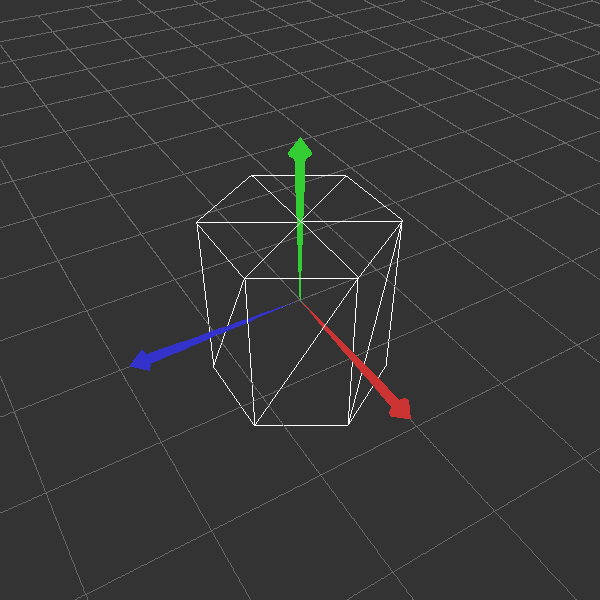
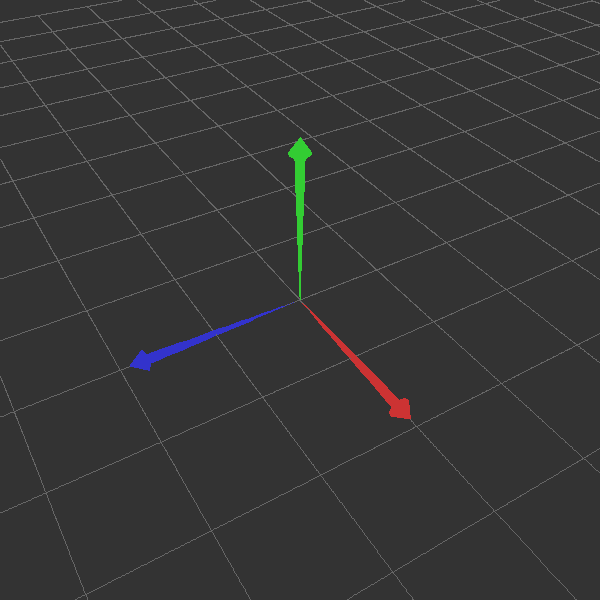
slider works

diff --git a/model/src/modeler/shape/Cylinder.java b/model/src/modeler/shape/Cylinder.java
@@ -4,6 +4,8 @@ import javax.vecmath.Point3f;
 import javax.vecmath.Point3i;
 import javax.vecmath.Vector3f;
 
+import jgl.glu.nurbs_nurbs;
+
 /**
  * @author ags
  */
@@ -17,6 +19,10 @@ public class Cylinder extends Shape {
 	private transient static Mesh cylinderMesh;
 
 
+	//? Questions
+	// lighting is off,,, -> diff checker but why???
+	// also the facets are wrong
+
 	/**
 	 * Required for IO
 	 */
@@ -28,12 +34,6 @@ public class Cylinder extends Shape {
 	public void buildMesh() 
 	{
 		// TODO: Part 2: Implement this method	
-
-		//Do nothing if the mesh has already been built
-		if(cylinderMesh != null) {
-			mesh = cylinderMesh;
-			return;
-		}
 
 		//get the flatness tolerance
 		//todo recalculate these when the slider changes
@@ -105,19 +105,24 @@ public class Cylinder extends Shape {
 
 		int numFacets = 6;
 		float flatness = 0.0f;
-		//loop through until we find an N that produces flatness greater than the flatnessTolerance
-		while (flatness < flatnessTolerance)
+		//loop through until we find a numFacets that produces flatness greater than the flatnessTolerance. use one step less than that (greatest that doesnt exceed)
+		System.out.println("");
+		while (flatness < flatnessTolerance) 
 		{
-			//1 - cos(360/2n)
-			flatness = 1 - cos((Math.toRadians(360.f/(2*numFacets))));
-			//increment
-			numFacets= numFacets+2;
-			System.out.println(flatness);
-			System.out.println(numFacets);
-		}
+			System.out.println("numFacets: " + numFacets);
 
-		//flatness exceeded, go back a step and be done
-		numFacets = numFacets-2;
+			//flatness = 1 - cos(angle)
+			flatness = 1 - cos(Math.toRadians(360.0f / numFacets / 2));
+			//inc by 2 for even facets
+			numFacets += 2;
+
+			System.out.println("flatness: " + flatness);
+			System.out.println("");
+		}
+		System.out.println("loop end");
+
+		numFacets -= 2;
+		//numFacets=20;
 		return numFacets;
 	}
 
@@ -247,7 +252,8 @@ public class Cylinder extends Shape {
 		}
 
 		// generate sides of triangle using duplicated vertices
-		// account for the extra origin vertices with the +2's
+		//verteces for the bottom (numFacets*2) come before the vertices for the top (numFacets*3)
+		// account for the extra origin vertices with the +2's / +3's
 		int sideStart = numFacets * 2;
 		for (int i = sideStart; i < numFacets*3; i++)
 		{
